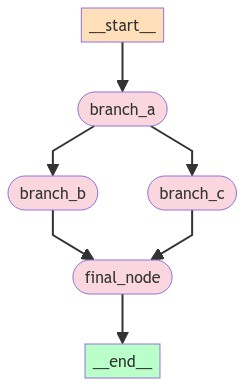
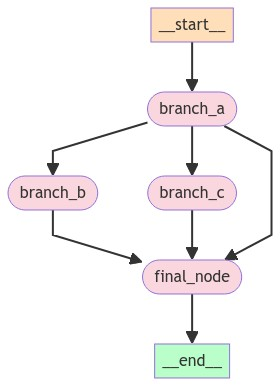
15-langgraph-intro separe nodes and edges

Changed region(s): [[0.0286, 0.0, 1.0, 0.9948], [0.8571, 0.6218, 0.9429, 0.6528]]

diff --git a/demos/🎙_interview/17-happy-number.js b/demos/🎙_interview/17-happy-number.js
@@ -1,0 +1,61 @@
+/*
+Write an algorithm to determine if a number n is happy.
+
+A happy number is a number defined by the following process:
+
+Starting with any positive integer, replace the number by the sum of the squares of its digits.
+Repeat the process until the number equals 1 (where it will stay), or it loops endlessly in a cycle which does not include 1.
+Those numbers for which this process ends in 1 are happy.
+Return true if n is a happy number, and false if not.
+
+ 
+
+Example 1:
+
+Input: n = 19
+Output: true
+Explanation:
+12 + 92 = 82
+82 + 22 = 68
+62 + 82 = 100
+12 + 02 + 02 = 1
+Example 2:
+
+Input: n = 2
+Output: false
+*/
+
+let getDigits = n => {
+    let digits = []
+    while (n > 0) {
+        digits.push(n % 10)
+        n = (n - (n % 10)) / 10
+    }
+    return digits
+}
+
+let stuckInALoop = v => {
+    if (v.length % 2 === 1) return false
+    for (let i = 0; i < v.length / 2; i++) 
+        if (v[i] !== v[v.length / 2 + i]) return false
+    return true && v.length
+}
+
+let n = 2
+let pastValues = []
+
+console.log(!stuckInALoop(pastValues))
+
+
+while((n!=1) && (!stuckInALoop(pastValues))) {
+    let digits = getDigits(n)
+    let sum = 0
+    for (d of digits)
+        sum += d * d
+    pastValues.push(n)
+    n = sum
+    console.log(n, pastValues)
+    process.openStdin()
+}
+
+n === 1 ? console.log('🎉 Number is Happy') : console.log('Number is not Happy')

diff --git a/demos/🦜_langchain/15-langgraph-intro/index.js b/demos/🦜_langchain/15-langgraph-intro/index.js
@@ -2,28 +2,38 @@ import { END, START, MessageGraph } from "@langchain/langgraph"
 // npm i tslab
 import * as fs from "fs"
 
+let index = 0
+
 function addOne(input) {
+    console.log(index, input[0].content)
+    index++
     input[0].content = input[0].content + "a";
     return input;
 }
 
 
-let graph = new MessageGraph() 
+let graph = new MessageGraph()
 
+// build nodes
 graph.addNode("branch_a", addOne)
-graph.addEdge("branch_a", "branch_b")
-graph.addEdge("branch_a", "branch_c")
-
 graph.addNode("branch_b", addOne)
 graph.addNode("branch_c", addOne)
 
+// at the time being here are just some notes floating around with no connections between them. 
+
+// add nodes connections using edges
+graph.addEdge(START, "branch_a")
+graph.addEdge("branch_a", "branch_b")
+graph.addEdge("branch_a", "branch_c")
 graph.addEdge("branch_b", "final_node")
 graph.addEdge("branch_c", "final_node")
+graph.addEdge("branch_a", "final_node")
+
+
 
 graph.addNode("final_node", addOne)
 graph.addEdge("final_node", END)
 
-graph.addEdge(START, "branch_a")
 // note this
 // graph.setEntryPoint("branch_a")
 
@@ -40,7 +50,7 @@ const arrayBuffer = await image.arrayBuffer();
 
 await fs.writeFileSync('graph-struct.png', new Uint8Array(arrayBuffer))
 
-let result = await runnable.invoke("a")
+let result = await runnable.invoke("Initial input ")
 
 console.log(result)
 
